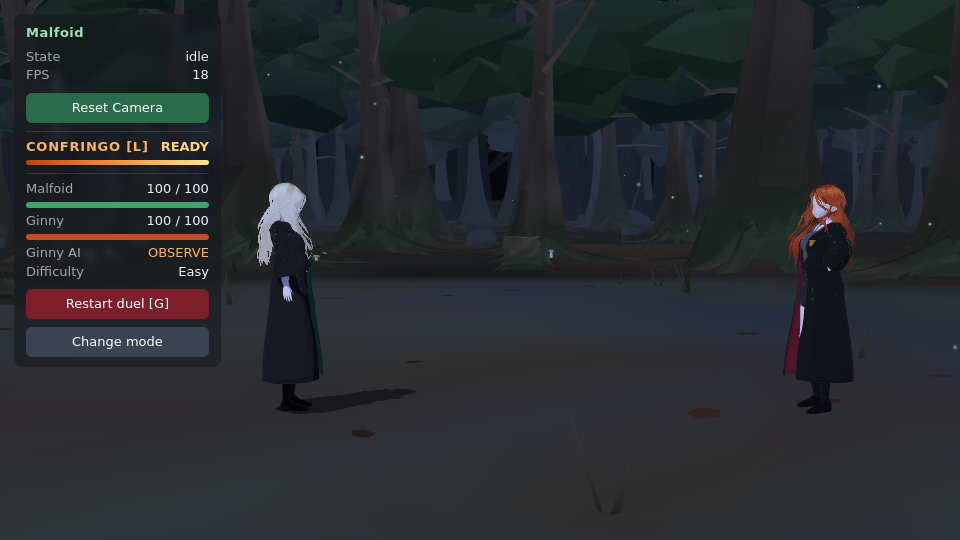
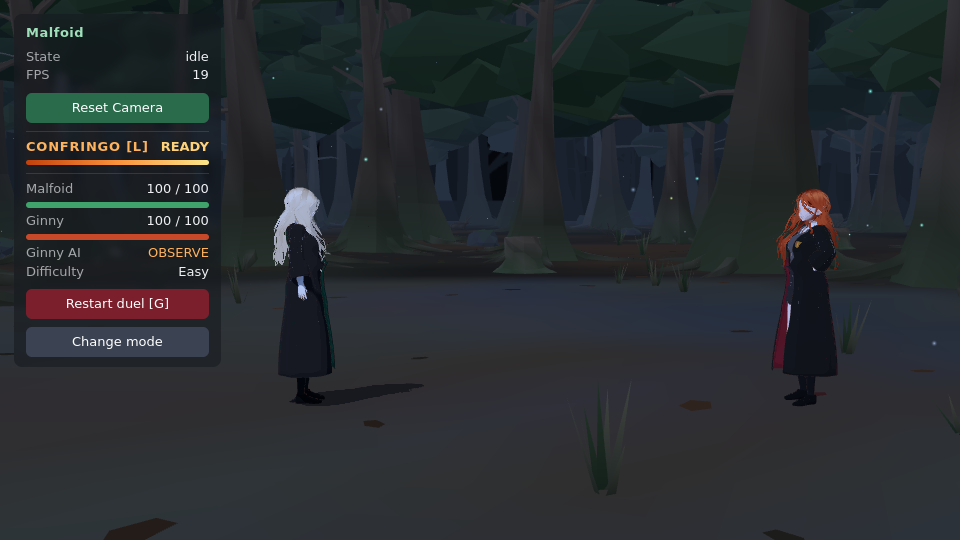
Forest: trunks were inside out (see-through); fix winding, two-sided grass
The tube builder used for trunks, branches, roots, logs and stumps wound
its triangles inwards: the renderer culled the near wall of every trunk
and drew the far wall's inside, so trees looked transparent and their
lighting was inverted. The walls and tip caps are now wound outwards.

- test: the tube builder (straight and bent paths), stumps, logs and
  rocks face outwards (failed at 0% outward before the fix)
- grass blades (single triangles) get a two-sided material
- docs/forest screenshots retaken with solid trees; report numbers
  updated (400 m trip: 18 crossings, median 3.4 ms, memory flat;
  revisit identical; border combat unchanged)

diff --git a/tests/forest_geometry.test.ts b/tests/forest_geometry.test.ts
@@ -1,0 +1,50 @@
+// Forest meshes must face outwards: an inside-out mesh shows its far inner wall through the
+// near side (trunks looked transparent). `npm test`
+import { test } from 'node:test';
+import assert from 'node:assert/strict';
+import * as THREE from 'three';
+import { logGeometry, rockGeometry, stumpGeometry, taperedTube } from '../src/scene/forest/geometry';
+
+/** share of triangles whose winding (front face) points away from the shape's axis */
+function outwardShare(g: THREE.BufferGeometry, axisPoint: (c: THREE.Vector3) => THREE.Vector3): number {
+  const p = g.getAttribute('position');
+  const a = new THREE.Vector3();
+  const b = new THREE.Vector3();
+  const c = new THREE.Vector3();
+  let out = 0;
+  let n = 0;
+  for (let i = 0; i < p.count; i += 3) {
+    a.fromBufferAttribute(p, i);
+    b.fromBufferAttribute(p, i + 1);
+    c.fromBufferAttribute(p, i + 2);
+    const normal = b.clone().sub(a).cross(c.clone().sub(a));
+    if (normal.lengthSq() < 1e-12) continue;
+    const centre = a.clone().add(b).add(c).divideScalar(3);
+    if (normal.dot(centre.clone().sub(axisPoint(centre))) > 0) out++;
+    n++;
+  }
+  return out / n;
+}
+
+test('the tube builder (trunks, branches, roots, logs, stumps) faces outwards', () => {
+  const r = () => 0.5;
+  // straight, and bent like a trunk
+  for (const path of [
+    [new THREE.Vector3(0, 0, 0), new THREE.Vector3(0, 3, 0), new THREE.Vector3(0, 6, 0)],
+    [new THREE.Vector3(0, 0, 0), new THREE.Vector3(0.6, 3, 0.2), new THREE.Vector3(-0.4, 6, 0.5), new THREE.Vector3(0.3, 9, 0)],
+  ]) {
+    const g = taperedTube(path, 0.5, 0.1, 8, 10, r, 0, () => [1, 1, 1]);
+    const curve = new THREE.CatmullRomCurve3(path);
+    const pts = curve.getSpacedPoints(200);
+    // compare each face with the nearest point of the centre line
+    const share = outwardShare(g, (c) => pts.reduce((best, p) => (p.distanceTo(c) < best.distanceTo(c) ? p : best), pts[0]));
+    assert.ok(share > 0.95, `tube: ${(share * 100).toFixed(0)}% outward`);
+    g.dispose();
+  }
+});
+
+test('stumps, logs and rocks face outwards', () => {
+  assert.ok(outwardShare(stumpGeometry(), (c) => new THREE.Vector3(0, c.y, 0)) > 0.8, 'stump');
+  for (let v = 0; v < 2; v++) assert.ok(outwardShare(logGeometry(v), (c) => new THREE.Vector3(c.x, 0.22, 0)) > 0.75, `log ${v}`);
+  for (let v = 0; v < 3; v++) assert.ok(outwardShare(rockGeometry(v), () => new THREE.Vector3(0, 0.18, 0)) > 0.95, `rock ${v}`);
+});

diff --git a/src/scene/forest/geometry.ts b/src/scene/forest/geometry.ts
@@ -48,7 +48,7 @@ function finish(g: THREE.BufferGeometry, colourAt: (p: THREE.Vector3, i: number)
  * A tube that narrows from r0 to r1 along a path, with knobbly bumps (bark, roots, branches).
  * colour(t, bump): t from 0 (start) to 1 (end).
  */
-function taperedTube(path: THREE.Vector3[], r0: number, r1: number, radial: number, segs: number, rand: () => number,
+export function taperedTube(path: THREE.Vector3[], r0: number, r1: number, radial: number, segs: number, rand: () => number,
   bump: number, colour: (t: number, b: number) => Col, flare = 0): THREE.BufferGeometry {
   const curve = new THREE.CatmullRomCurve3(path);
   const frames = curve.computeFrenetFrames(segs, false);
@@ -76,7 +76,7 @@ function taperedTube(path: THREE.Vector3[], r0: number, r1: number, radial: numb
       const b = s * radial + ((k + 1) % radial);
       const c = (s + 1) * radial + k;
       const d = (s + 1) * radial + ((k + 1) % radial);
-      idx.push(a, c, b, b, c, d);
+      idx.push(a, b, c, b, d, c);              // counter-clockwise seen from outside: faces point out
     }
   }
   // closed tip
@@ -84,7 +84,7 @@ function taperedTube(path: THREE.Vector3[], r0: number, r1: number, radial: numb
   const ti = verts.length / 3;
   verts.push(tip.x, tip.y, tip.z);
   bumps.push(1);
-  for (let k = 0; k < radial; k++) idx.push(segs * radial + k, ti, segs * radial + ((k + 1) % radial));
+  for (let k = 0; k < radial; k++) idx.push(segs * radial + k, segs * radial + ((k + 1) % radial), ti);
   const g = new THREE.BufferGeometry();
   g.setAttribute('position', new THREE.Float32BufferAttribute(verts, 3));
   g.setIndex(idx);

diff --git a/src/scene/forest/ForestWorld.ts b/src/scene/forest/ForestWorld.ts
@@ -101,7 +101,9 @@ export class ForestWorld {
     if (cfg.fadeBlockingTrees) addFade(this.treeNearMat);
     const leafMat = new THREE.MeshLambertMaterial({ vertexColors: true });
     const glowMat = new THREE.MeshBasicMaterial({ color: '#6ff0d2', vertexColors: true });
-    this.mats.push(this.envMat, this.treeNearMat, leafMat, glowMat);
+    // grass blades are single triangles: visible from both sides
+    const grassMat = new THREE.MeshToonMaterial({ vertexColors: true, gradientMap: this.gradient, side: THREE.DoubleSide });
+    this.mats.push(this.envMat, this.treeNearMat, leafMat, glowMat, grassMat);
 
     // one slot (shared geometry + InstancedMesh) per shape
     for (let v = 0; v < TREE_VARIANTS; v++) {
@@ -115,7 +117,7 @@ export class ForestWorld {
     };
     for (const kind of Object.keys(PROP_VARIANTS) as PropKind[]) {
       for (let v = 0; v < PROP_VARIANTS[kind]; v++) {
-        const mat = kind === 'leaf' ? leafMat : kind === 'glowshroom' ? glowMat : this.envMat;
+        const mat = kind === 'leaf' ? leafMat : kind === 'glowshroom' ? glowMat : kind === 'grass' ? grassMat : this.envMat;
         this.addSlot(`prop:${kind}:${v}`, propGeo[kind](v), mat);
       }
     }

diff --git a/docs/forest/REPORT.md b/docs/forest/REPORT.md
@@ -84,11 +84,11 @@ Things that follow the player:
   - the real controller ran Malfoid across a chunk border with Ginny's AI chasing
   - a fight on the x = −32 border landed 4 strikes, and Ginny went from 100 to 68 HP
 - **Long trip:** a 400 m walk in 2 m steps crossed 18 chunks.
-  - restreaming took a median of 4.5 ms per crossing (one spike of 39 ms)
-  - geometries (96), textures (31) and JS heap (61 MB) stayed constant
+  - restreaming took a median of 3.4 ms per crossing (one spike of 37 ms)
+  - geometries (96), textures (31) and JS heap (65 MB) stayed constant
   - the placement cache grew to 168 of its 400 limit
 - **Revisit:** back at the spawn, the trees nearby have identical positions and variants. The
-  screenshots differ by 0.38/255 on average, which is the moving fireflies and motes.
+  screenshots differ by 0.93/255 on average, which is the moving fireflies and motes.
 - **Rendering cost:** about 115 draw calls.
   - triangles: about 800k–850k in the woods, against 163k in the studio, which includes the
     characters' ~150k each
@@ -109,7 +109,10 @@ Things that follow the player:
   Ginny's AI, chasing with a tree straight in her way, slid round it and reached Malfoid in
   8 game seconds. Trees slow the AI but don't trap her; she has no path planning.
 - **Regression:** Training still uses the studio, all 8 combos land with the same damage, and
-  the 31 logic tests pass.
+  the 33 logic tests pass.
+- **Mesh winding:** trunks, branches, roots, logs and stumps were first built inside out, so the
+  near wall of every trunk was culled and they looked transparent. Fixed; a test now checks the
+  tube builder faces outwards, and all screenshots here were retaken after the fix.
 
 ## Quick tweaks
 | What | Where |
